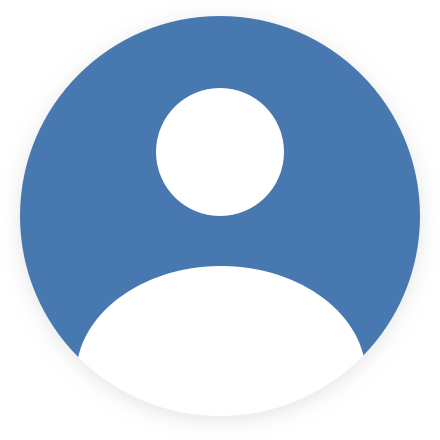
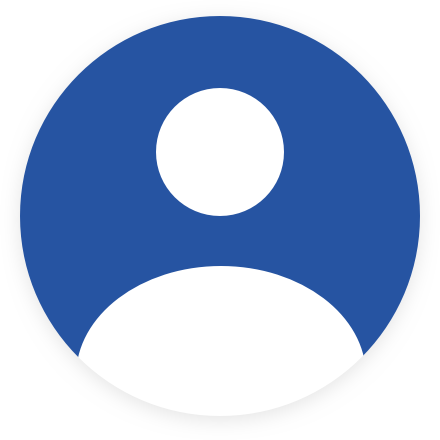
Updated Navigation

diff --git a/src/main.css b/src/main.css
@@ -12,7 +12,7 @@ body {
     z-index: 2;
     height: 70px;
     width: 100%;
-    background-color: #4878B0;
+    background-color: #2654a2;
     position: absolute;
     box-shadow: 0px 8px 16px 0px rgba(0,0,0,0.2);
 }
@@ -26,15 +26,21 @@ body {
     float: left;
 }
 
-#navigation-bar img {
+#navigation-bar #logo {
     height: 30px;
-    margin: 20px 20px 20px 50px;
+    margin: 20px 50px;
+}
+
+#navigation-bar #arrow {
+    height: 12px;
+    transform: translateX(-10px);
 }
 
 #navigation-bar h1 {
-    font-size: 22px;
+    font-size: 19px;
     font-weight: 400;
-    padding-top: 21px;
+    padding-top: 24px;
+    letter-spacing: 1px;
 }
 
 .navigation-projects {
@@ -45,9 +51,10 @@ body {
 
 
 .navigation-projects-button {
-    background-color: #4878B0;
+    background-color: #2654a2;
     color: white;
-    font-size: 22px;
+    font-size: 19px;
+    letter-spacing: 1px;
     border: none;
     height: 70px;
     padding: 0 20px;
@@ -56,7 +63,7 @@ body {
 .navigation-projects-content {
     display: none;
     position: absolute;
-    background-color: #4878B0;
+    background-color: #2654a2;
     border-radius: 0 0 5px 5px;
     min-width: 160px;
     box-shadow: 0px 8px 16px 0px rgba(0,0,0,0.1);
@@ -65,8 +72,9 @@ body {
 
 .navigation-projects-content a {
     color: white;
-    padding: 12px 16px;
+    padding: 12px 20px;
     text-decoration: none;
+    letter-spacing: 1px;
     display: block;
 }
 

diff --git a/src/main.js b/src/main.js
@@ -40,12 +40,13 @@ function projectTemplate(project) {
 window.addEventListener('load', function () {
     document.getElementById('navigation-bar').innerHTML = `
     <a href="index.html">
-    <img src="src/index/logo_white_small.png">
-    <h1>Hjem</h1>
+    <img id="logo" src="src/index/logo_white_small.png">
+    <h1>HJEM</h1>
     </a>
 
     <div class="navigation-projects">
-    <button class="navigation-projects-button">Prosjekter</button>
+    <button class="navigation-projects-button">PROSJEKTER</button>
+    <img id="arrow" src="src/index/arrow_down.png">
     <div class="navigation-projects-content">
      ${projects.map(projectTemplate).join('')}
     </div>

diff --git a/src/projects/nanogram/Nanogram.js b/src/projects/nanogram/Nanogram.js
@@ -240,6 +240,7 @@ function mousePressed() {
             this.currentImageIndex = buttons[i].index;
             buttons[this.currentImageIndex].active = true;
             this.setupTiles();
+            this.restart();
         }
     }
 }

diff --git a/src/projects/nanogram/Button.js b/src/projects/nanogram/Button.js
@@ -19,7 +19,7 @@ class Button {
 
     draw() {
         if (this.active) {
-            fill(72, 120, 176);
+            fill(38, 84, 162);
         } else {
             fill(165, 190, 215);
         }
